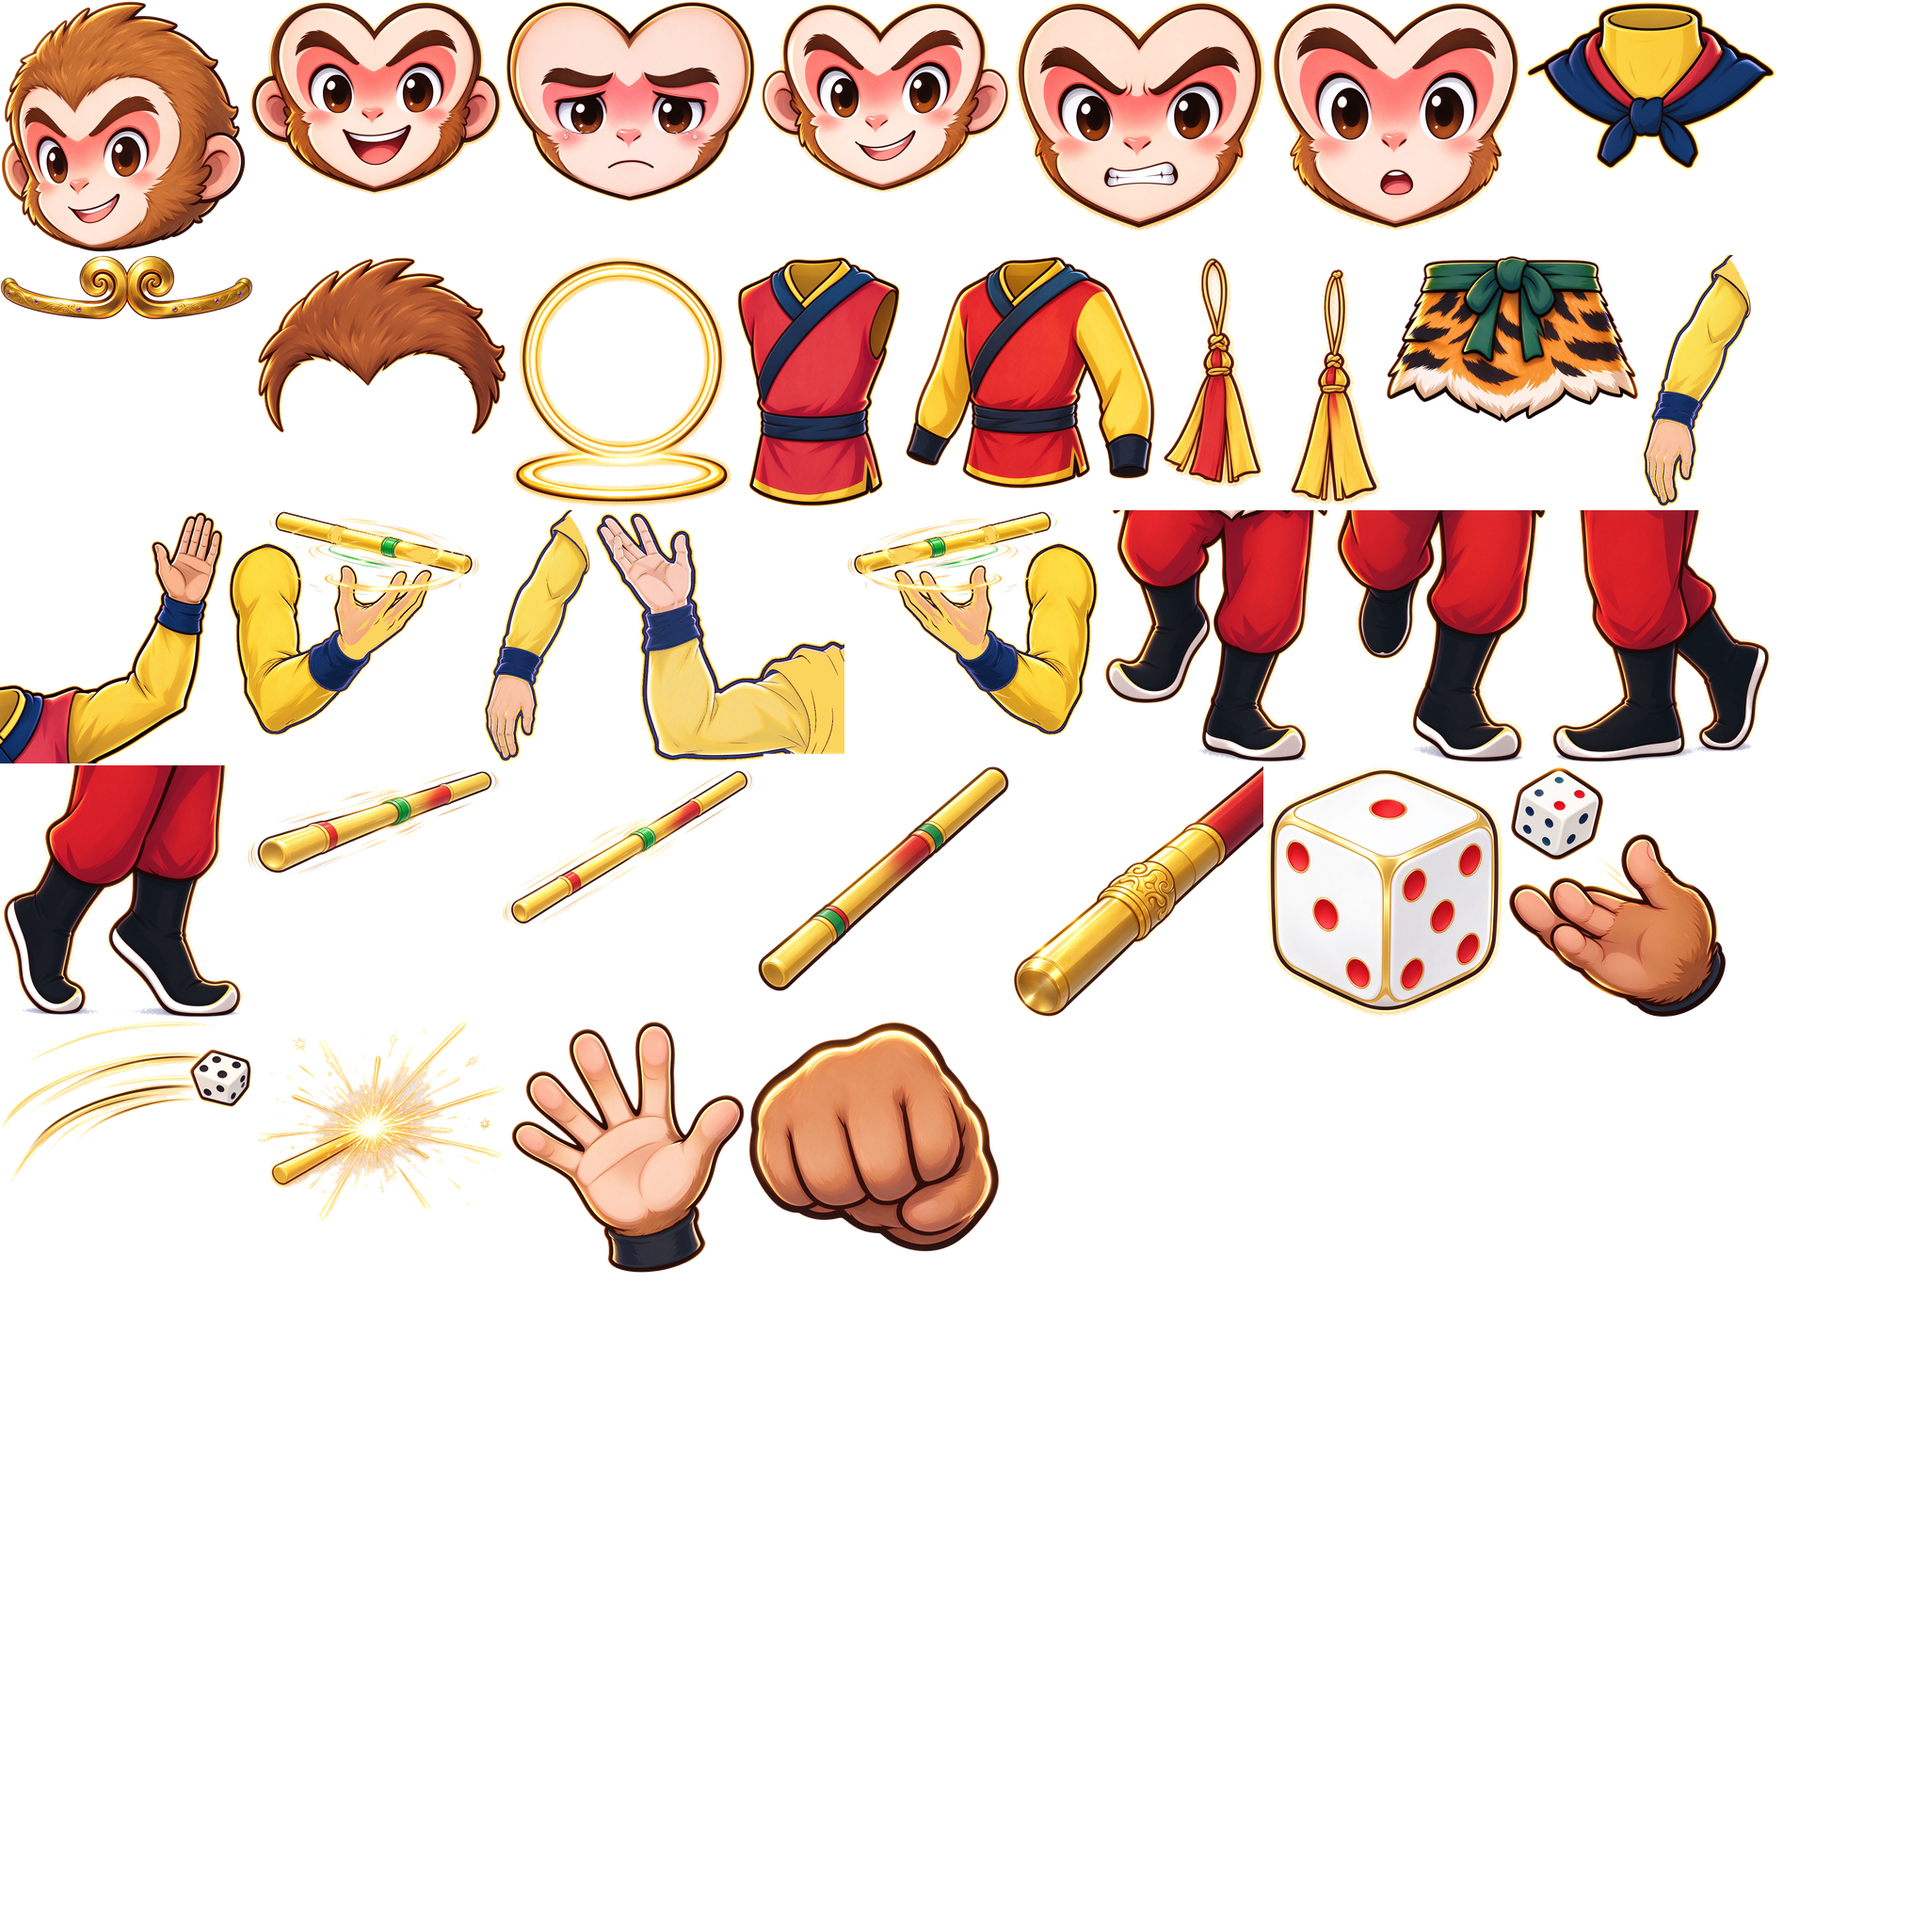
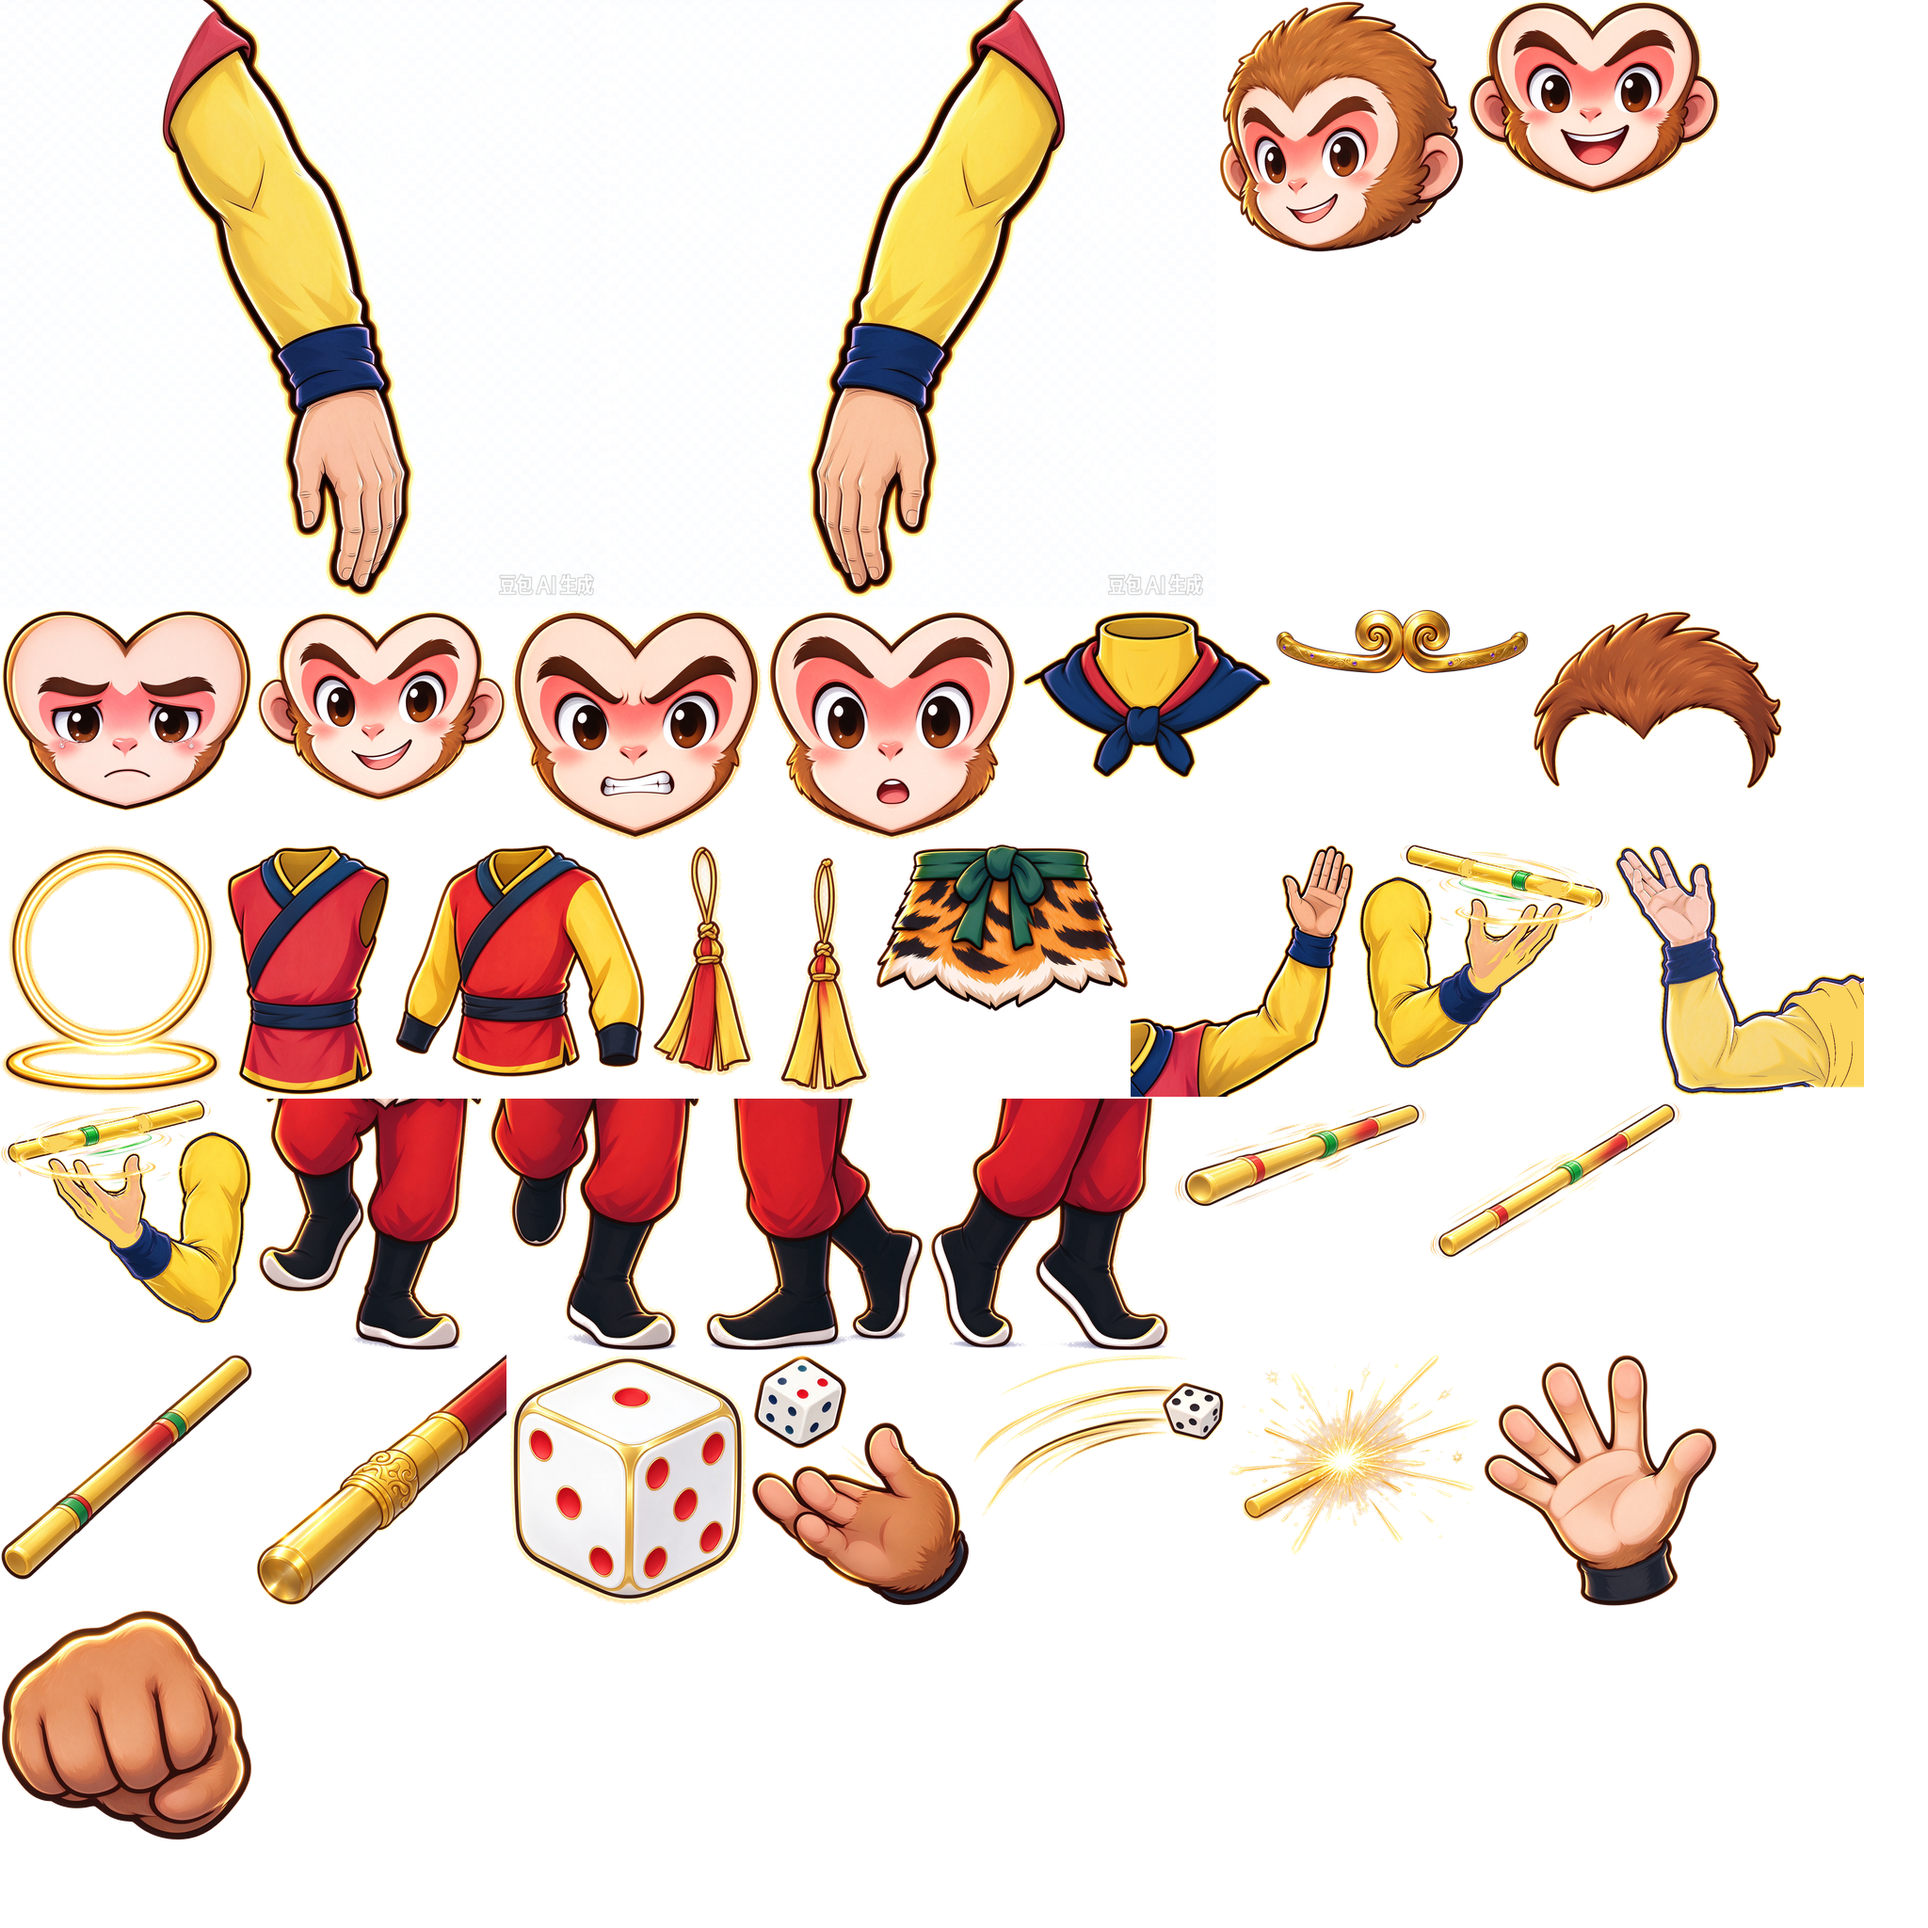
fix(mono-spine): 下垂臂原图重处理;金箍再缩至头宽x0.8;happy头-18/sad头-12;sad头三层构成(委屈头+金箍头发+金箍,新增band_hair槽)

diff --git a/monopoly/tools/spine-build/build_wukong.py b/monopoly/tools/spine-build/build_wukong.py
@@ -153,7 +153,7 @@ def build_skeleton():
     # 裙宽贴合腰身：目标宽 = 躯干宽×1.05（动态覆盖 SIZE_SCALE，用户校准「裙与腰部大小对齐」）
     SIZE_SCALE["skirt"] = round(torso_w * 1.05 / D["skirt"][0], 3)
     # 金箍缩放贴合头部轮廓：宽 = 头宽×0.9（动态，用户校准）
-    SIZE_SCALE["headband"] = round(D["head"][0] * 0.9 / D["headband"][0], 3)
+    SIZE_SCALE["headband"] = round(D["head"][0] * 0.8 / D["headband"][0], 3)
     SIZE_SCALE["headband_hair"] = SIZE_SCALE["headband"]
     # 足部缩小至能被裙覆盖：腿宽 = 裙宽×0.9（动态）
     leg_fit = round(D["skirt"][0] * SIZE_SCALE["skirt"] * 0.9 / D["legs_walk1"][0], 3)
@@ -193,7 +193,8 @@ def build_skeleton():
         ("neck",     "neck_b",  ["neck_part"], "neck_part"),
         ("head",     "head",    ["head", "head_laugh", "head_sad", "head_grin",
                                  "head_grit", "head_shock"], "head"),
-        ("headband", "band_b",  ["headband", "headband_hair", "headband_anim"], "headband"),
+        ("band_hair", "band_b", ["headband_hair"], None),   # 金箍头发层（头与金箍之间）
+        ("headband", "band_b",  ["headband", "headband_anim"], "headband"),
         ("hand_l",   "hand_l",  ["hand_close"], None),
         ("hand_r",   "hand_r",  ["fist_close"], None),
         ("weapon",   "weapon",  ["staff_15", "staff_30", "staff_45", "staff_close"], None),
@@ -258,7 +259,7 @@ def build_animations():
     att("idle_happy", "arm_r", [(0, "arm_r_raise")])
     att("idle_happy", "arm_l", [(0, "arm_l_raise")])
     att("idle_happy", "head", [(0, "head_laugh")])
-    tra("idle_happy", "head", [(0, 0, -15), (T, 0, -15)])  # 头整体下移 15（用户校准：12再下移3）
+    tra("idle_happy", "head", [(0, 0, -18), (T, 0, -18)])  # 头整体下移 18（用户校准：15再下移3）
     att("idle_happy", "headband", [(0, "headband_hair")])  # 金箍头发一体件：补头发，头发层在金箍上
     att("idle_happy", "legs", [(0, "legs_tiptoe_l"), (T / 2, "legs_walk1"), (T, "legs_tiptoe_l")])
     tra("idle_happy", "hips", [(0, 0, 0), (T / 4, 0, 18), (T / 2, 0, 0),
@@ -269,8 +270,9 @@ def build_animations():
     # —— idle_sad：委屈头 + 双垂臂 + 低头塌胸 ——
     T = 3.0
     att("idle_sad", "head", [(0, "head_sad")])
-    tra("idle_sad", "head", [(0, 0, -7), (T, 0, -7)])  # 头整体下移 7（用户校准）
-    att("idle_sad", "headband", [(0, "headband_hair")])  # 金箍头发一体件：补头发
+    tra("idle_sad", "head", [(0, 0, -12), (T, 0, -12)])  # 头整体下移 12（用户校准：7再下移5）
+    att("idle_sad", "band_hair", [(0, "headband_hair")])  # 头三层构成：委屈头+金箍头发+金箍
+    att("idle_sad", "headband", [(0, "headband")])
     att("idle_sad", "arm_r", [(0, "arm_r_down")])
     att("idle_sad", "arm_l", [(0, "arm_l_down")])
     rot("idle_sad", "head", [(0, 0), (T / 3, 4), (T, 4)])
